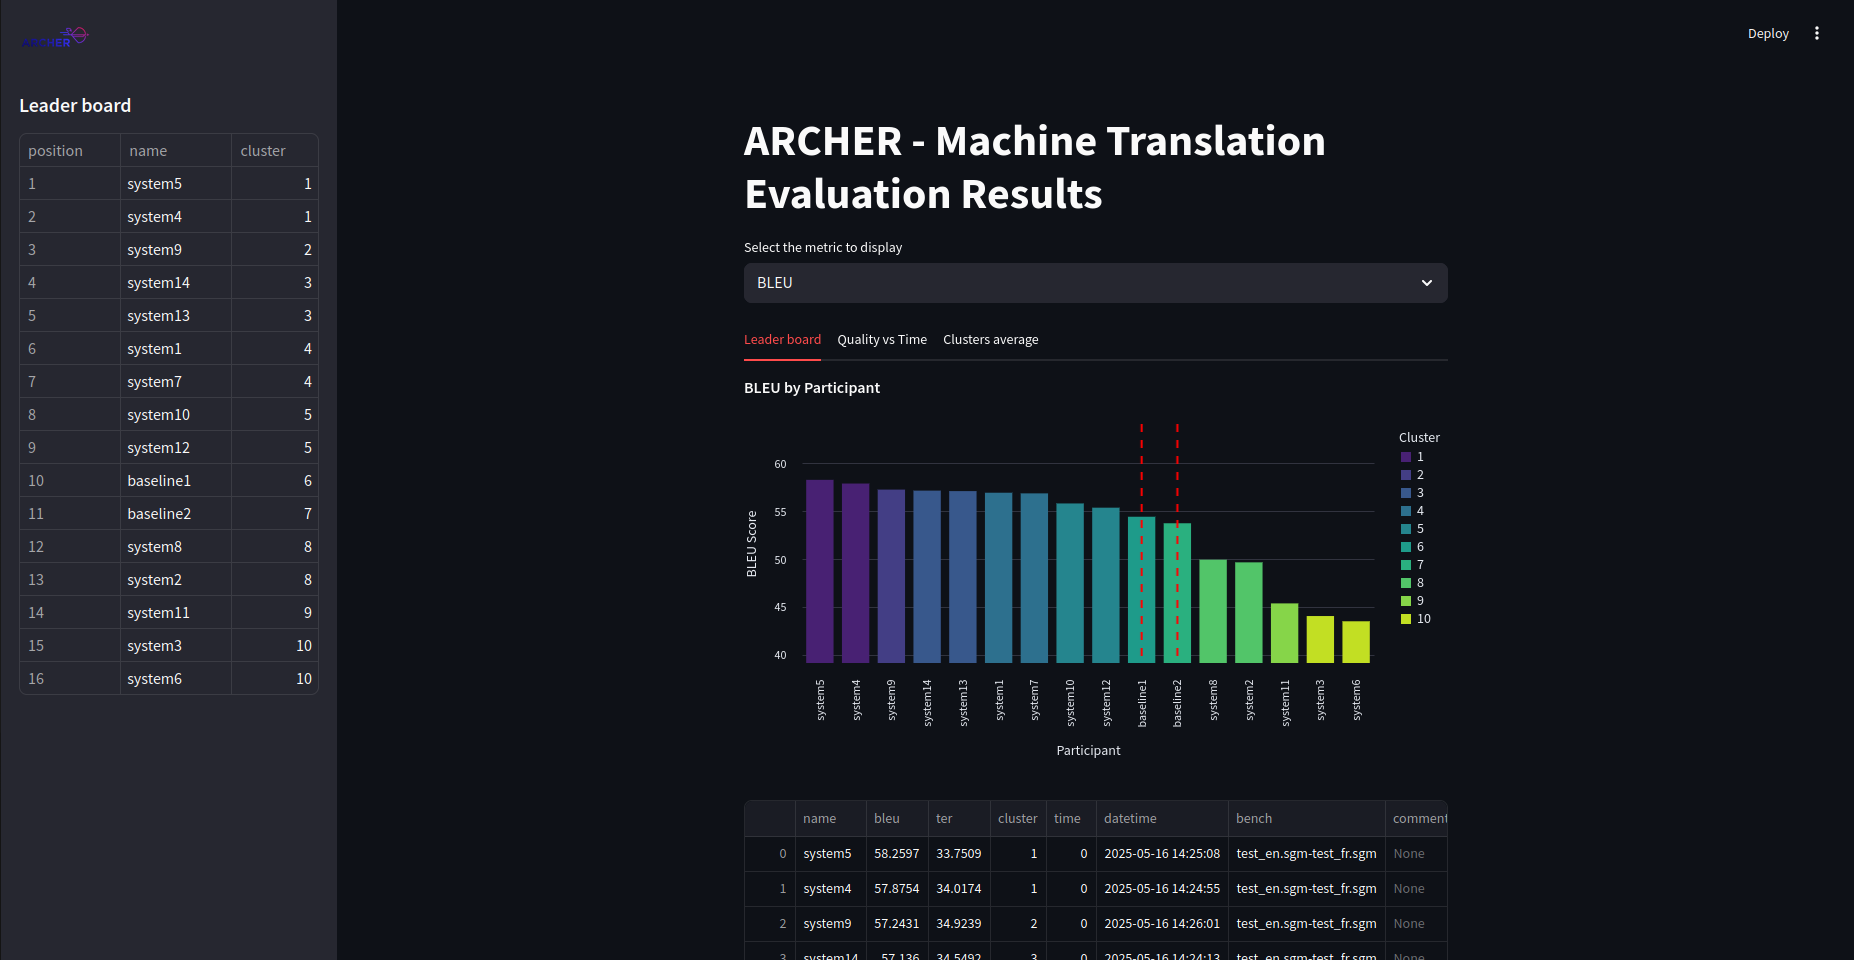
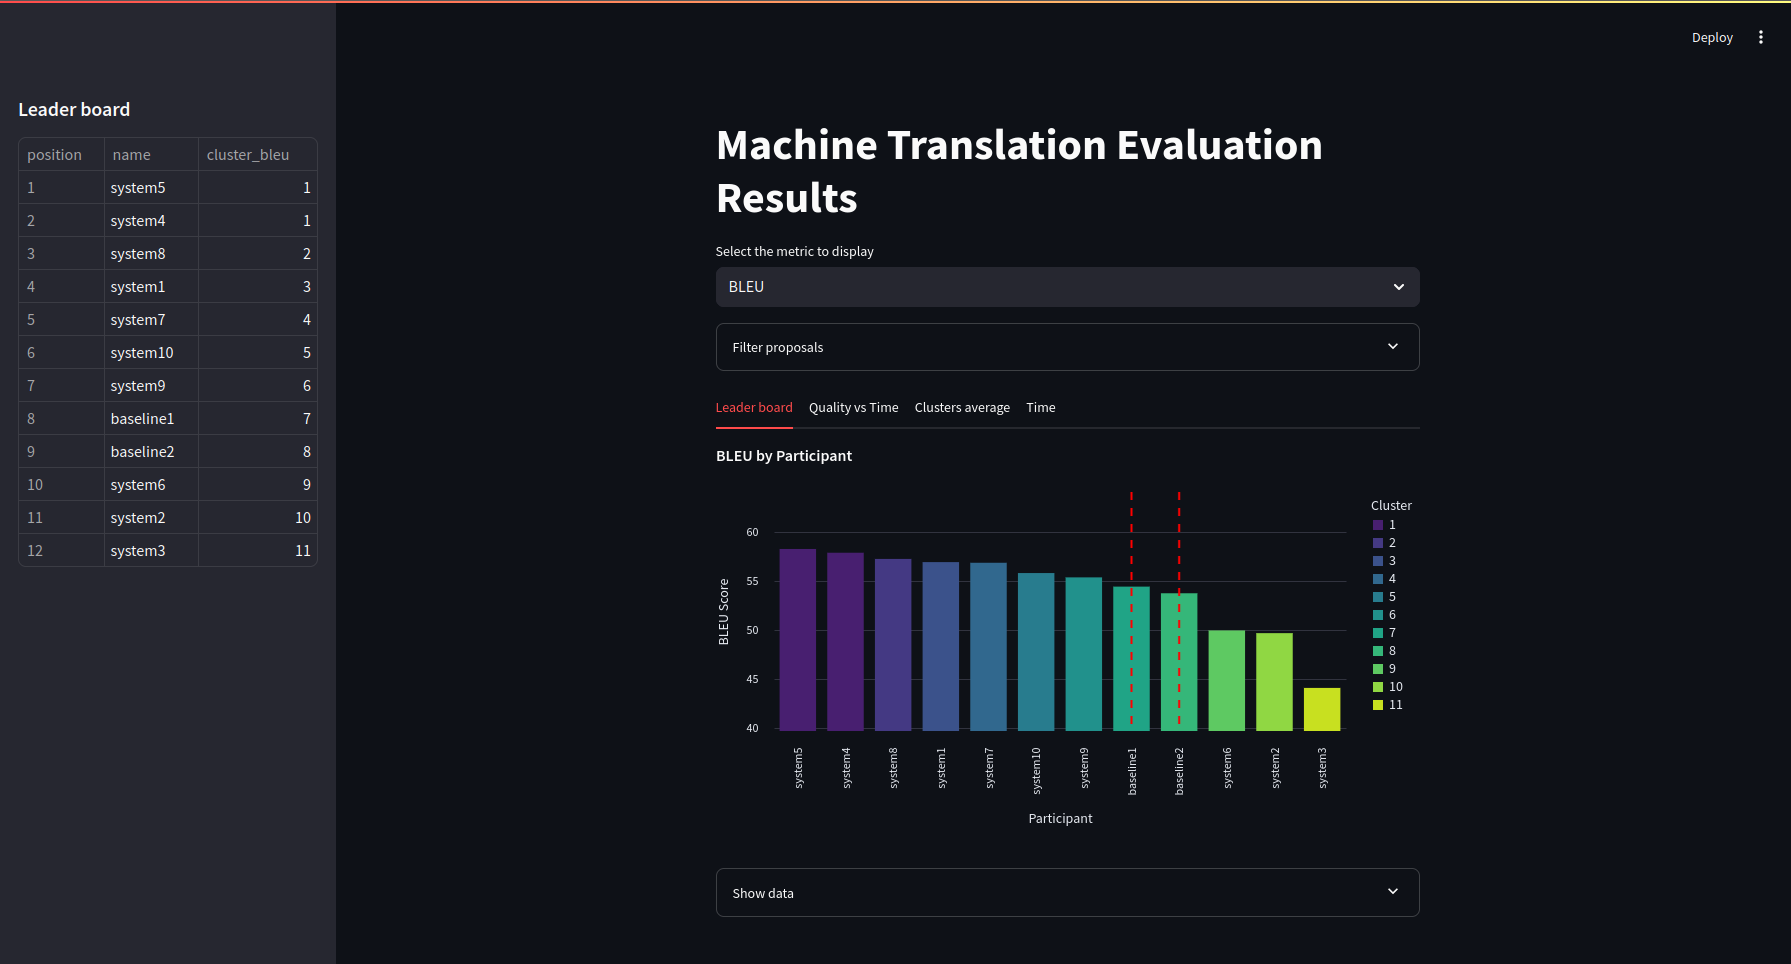
cuestión estética

diff --git a/display.py b/display.py
@@ -4,6 +4,13 @@ import altair as alt
 from seaborn import color_palette
 from sys import argv
 
+def get_metrics(list_columns):
+    """
+    Get the list of metrics from the dataframe columns.
+    """
+    non_metric = ['name','time', 'datetime', 'comment', 'task', 'subtask', 'position']
+    return [col for col in list_columns if col not in non_metric and not col.startswith('cluster_')]
+
 def color_generator(categories, label='cluster', palette='crest'):
     """
     Generate a list of n colors.
@@ -72,10 +79,7 @@ def cluster_chart(df, metric, colors_cluster, mode):
     Generate a cluster chart for the leaderboard.
     """
     conf = {}
-    if mode == 'mt':
-        conf = {'bleu': 'mean', 'ter': 'mean'}
-    else:
-        conf = {'wer': 'mean', 'bwer': 'mean'}
+    conf[metric] = 'mean'
     conf['comment'] = lambda x: 'Baseline' if any(x == 'Baseline') else None
     cluster_df = df.groupby(f'cluster_{metric}').agg(conf).reset_index()
     top = 1.1 * cluster_df[metric].max()
@@ -98,32 +102,84 @@ def cluster_chart(df, metric, colors_cluster, mode):
     chart = alt.layer(bar, rule).configure_axisX(labelAngle=0)
     st.altair_chart(chart, use_container_width=True)
 
+def time_chart(df):
+    """
+    Generate a time pie chart for the leaderboard.
+    """
+    df = df.sort_values('datetime')
+    legend = alt.Legend(title="Participant")
+    chart = (
+        alt.Chart(df)
+          .mark_arc(innerRadius=50, outerRadius=100)
+          .encode(
+              theta=alt.Theta('time:Q', title='Run time (s)'),
+              color=alt.Color('name:N', legend=legend),
+              tooltip=['name','datetime','time']
+          )
+          .properties(title="Computation Time", width=700, height=400)
+    )
+    st.altair_chart(chart, use_container_width=True)
+
+def general_view(df):
+    """
+    General view of the dataframe.
+    """
+    metrics = get_metrics(df.columns)
+    scores = [{'metric': metric, 'scores': df[metric].values.tolist()} for metric in metrics]
+    sc_df = pd.DataFrame(scores)
+    st.dataframe(sc_df,
+                 column_config={
+                     "metric": st.column_config.TextColumn(
+                         "Metric",
+                         help="The evaluation metric",
+                     ),
+                     "scores": st.column_config.BarChartColumn(
+                         "Scores",
+                         help="The scores for each participant",
+                     ),
+                 },
+                 hide_index=True,
+                 use_container_width=True)
+
 def main():
     if len(argv) != 3:
       st.write("Usage: python display.py <filename.csv> <mode>")
     filename = argv[1]
     MODE = argv[2]
-    if MODE not in ['mt','htr']:
-      st.write("Invalid mode. Use 'mt' for machine translation or 'htr' for handwriting recognition.")
-      return
 
     if MODE == 'mt':
-      st.title('ARCHER - Machine Translation Evaluation Results')
+      st.title('Machine Translation Evaluation Results')
+    elif MODE == 'dr':
+      st.title('Handwritten Text Recognition Evaluation Results')
     else:
-      st.title('ARCHER - Handwritten Text Recognition Evaluation Results')
-    st.logo('images/archer.png', icon_image='images/archer-short.png', link='https://archer-challenge.eu/')
+      print("Invalid mode. Available modes: ['mt', 'dr']")
+      exit(1)
+    df = pd.read_csv(filename)
 
     ##################
     # FILTERS
     ##################
     # Select main metric
-    opt = ('BLEU', 'TER') if MODE == 'mt' else ('BWER', 'WER')
+    #opt = ('BLEU', 'TER') if MODE == 'mt' else ('BWER', 'WER')
+    opt = tuple(m.upper() for m in get_metrics(df.columns))
     metric = st.selectbox(
         'Select the metric to display',
         opt
     ).lower()
 
-    df = pd.read_csv(filename)
+    with st.expander("Filter proposals", expanded=False):
+        participants = df['name'].unique().tolist()
+        selected_participants = st.multiselect(
+            'Select participants to display',
+            participants,
+            default=participants
+        )
+        df = df[df['name'].isin(selected_participants)]
+
+    if df.empty:
+        st.write("No data to display. Please adjust the filters.")
+        return
+
     colors_cluster = color_generator(df[f'cluster_{metric}'].unique(), label=f'cluster_{metric}', palette='viridis')
     df['datetime'] = pd.to_datetime(df['datetime'])
 
@@ -138,7 +194,7 @@ def main():
     #################################
     # CHARTS
     #################################
-    bar_tab, scatter_tab, cluster_tab = st.tabs(['Leader board', 'Quality vs Time', 'Clusters average'])
+    bar_tab, scatter_tab, cluster_tab, time_tab = st.tabs(['Leader board', 'Quality vs Time', 'Clusters average', 'Time'])
 
     with bar_tab:
       bar_leaderboard(df, metric, colors_cluster)
@@ -148,6 +204,9 @@ def main():
 
     with cluster_tab:
       cluster_chart(df, metric, colors_cluster, MODE)
+
+    with time_tab:
+      time_chart(df)
 
     #################################
     # TABLES

diff --git a/eval.py b/eval.py
@@ -197,21 +197,29 @@ def check_paramaters(args):
     return models, refs, metrics
 
 def parse_xml(file):
+    '''
+    Parse the XML file and return the segments.
+    Args:
+        file: path to the XML file
+    Returns:
+        segments: list of segments
+    '''
     try:
         tree = ET.parse(file,  ET.XMLParser(recover=True))
     except IOError:
         raise IOError(f"File {file} not found.")
     except SyntaxError:
         raise SyntaxError(f"File {file} is not well-formed.")
-    
+
     root = tree.getroot()
     segments = []
-    for seg in root[0]: #tree.getiterator(tag='doc'): 
-        if seg.tag == 'SEG':
-            if seg.text is None:
-                segments.append('')
-            else:
-                segments.append(seg.text.strip())
+    for doc in root: #tree.getiterator(tag='DOC'):
+        for tag in doc:
+            if tag.tag == 'SEG':
+                if tag.text is None:
+                    segments.append('')
+                else:
+                    segments.append(tag.text.strip())
     return segments
 
 def parse_moses(file):

diff --git a/README.md b/README.md
@@ -1,8 +1,55 @@
-# Visualization
-This git contains tools for evaluation and its posterior visualization of Machine Translation (MT) and Handwriten Text Recognition (HTR) systems. To evaluate HTR systems you will need to run the `setup.sh` script before.
+# DEEP
+This git contains a pipeline for automated execution of systems and evaluation of Machine Translation (MT) and Handwriten Text Recognition (HTR) systems. After the evaluation we also provede a visualization web-app to analyse the results.
+
+Before using the software it is important to run the `setup.sh` script:
+```bash
+sh setup.sh
+```
+Otherwise some functionalities won't work
 
 ## Evaluation
-The evaluation of the systems can be done using the `eval.py` script. Each system must be dockerized and prepared to be runned appropiately. It must read the `data/source.sgm` file and write the corresponding translations in the `data/predictions.sgm` file of the docker container. The `eval.py` script will read the predictions, store them in a directory, evaluate each one with the appropriate metrics and clusterize the submissions. 
+The evaluation of the systems can be done using the `eval.py` script: 
+```
+usage: python eval.py [-h] [--source SOURCE [SOURCE ...]] 
+               [--systems SYSTEMS]
+               [--dir_preds DIR_PREDS] 
+               [--baselines BASELINES [BASELINES ...]]
+               [--output OUTPUT] [-a]
+               [--metrics {bleu,ter,chrf,beer,wer,bwer} [{bleu,ter,chrf,beer,wer,bwer} ...]]
+               [--trials TRIALS] [--p_value P_VALUE] 
+               --task {mt,dr} 
+               --subtask SUBTASK
+               reference [reference ...]
+
+Evaluates the participant dockerized models. They need to output the translations of the source file in SGM format.
+
+positional arguments:
+  reference             Path to the references file(s)
+
+options:
+  -h, --help            show this help message and exit
+  --source SOURCE [SOURCE ...]
+                        Path to the sources files
+  --systems SYSTEMS     Path to the directory that contains all the dockerized systems.
+                        If provided, the systems will be run and the translations will
+                        be evaluated. If not provided, the translations will be read
+                        from the dir_preds directory.
+  --dir_preds DIR_PREDS
+                        Name of directory with the translation files
+  --baselines BASELINES [BASELINES ...]
+                        List of baseline systems to be evaluated. Must be included among
+                        the rest of the systems
+  --output OUTPUT       Path to the file that will store the leaderboard
+  -a, --append          Append the results to the output file
+  --metrics {bleu,ter,chrf,beer,wer,bwer} [{bleu,ter,chrf,beer,wer,bwer} ...]
+                        List of metrics to be used (default: BLEU and TER)
+  --trials TRIALS       Number of trials for the ART (default: 10000)
+  --p_value P_VALUE     P-value for the ART (default: 0.05)
+  --task {mt,dr}        Task to be evaluated: mt (machine translation) or dr (document
+                        recognition)
+  --subtask SUBTASK     Subtask to be evaluated
+```
+Each system must be dockerized and prepared to be runned appropiately. It must read the `data/source.sgm` file and write the corresponding translations in the `data/predictions.sgm` file of the docker container. The `eval.py` script will read the predictions, store them in a directory, evaluate each one with the specified metrics and clusterize the submissions. 
 
 The clusterization algorithm is based in the significance of the difference in the metrics of the predictions. Thus, once the submissions are sorted by BLEU the significance of the differences between consecutive submissions are assesed. If they are not significant enough those submissions will be part of the same cluster.
 
@@ -11,7 +58,7 @@ The results of the evaluation are stored in a `.csv` file with the specified nam
 ## Visualization
 The visualization is performed using a Streamlit web app. This is the command to launch it:
 
-```
-$ streamlit run [OPTIONS] display.py display.py <evaluation_file.csv> [ARGS]
+```bash
+streamlit run [OPTIONS] display.py <evaluation_file.csv> [mt|dr]
 ```
 ![alt text](images/screenshot.png)
